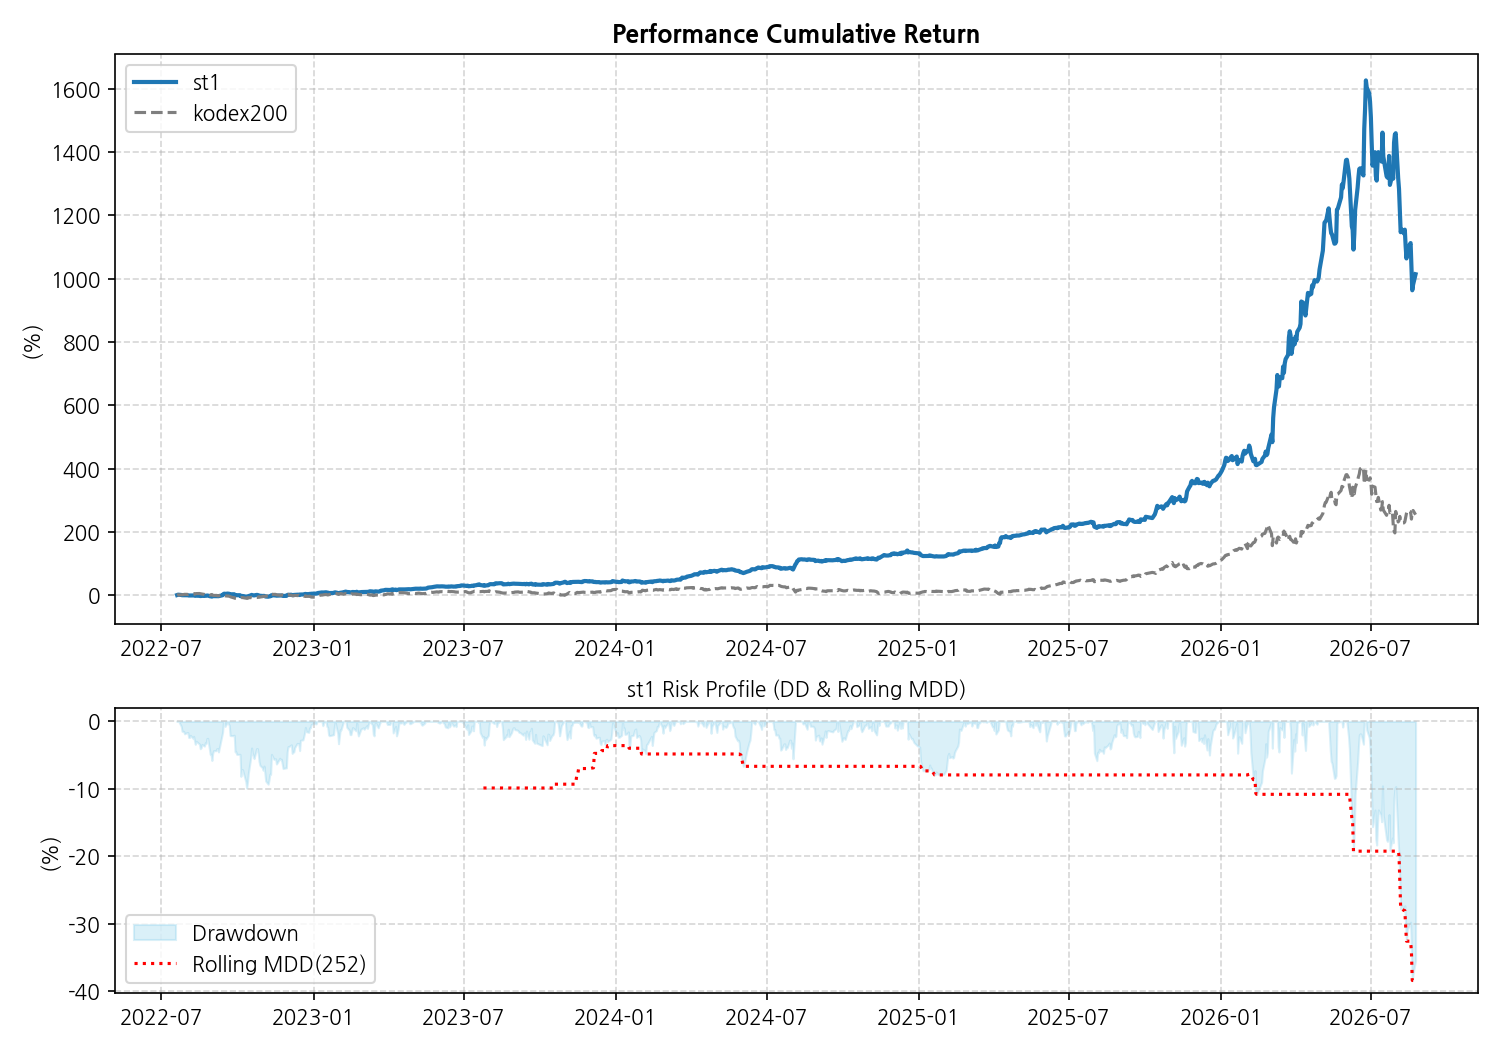
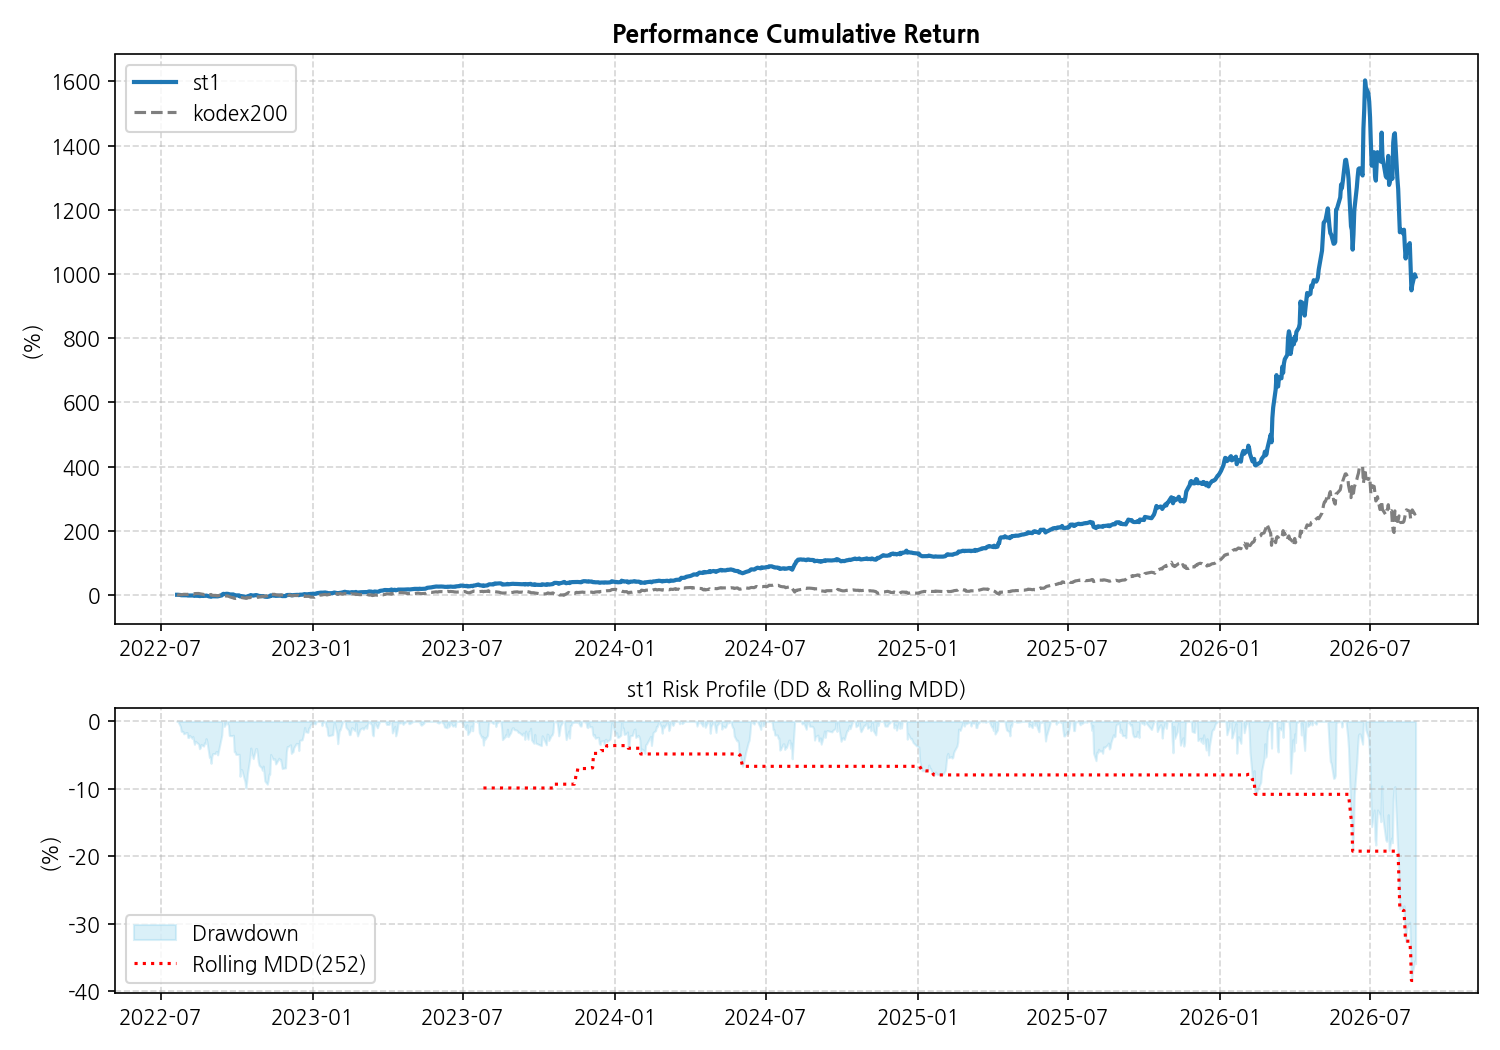
Auto commit

diff --git a/_pages/bt/bt_kodex.md b/_pages/bt/bt_kodex.md
@@ -2,7 +2,7 @@
 layout: post
 title: "BT, 오늘의 시그널(ETF)"
 author: Best Investor
-date: 2026-08-24
+date: 2026-08-25
 category: BT
 mermaid: true
 parent: 포트폴리오
@@ -14,14 +14,14 @@ parent: 포트폴리오
 
 | 지표 | 전략 1 (S1) | 전략 2 (S2) | 차이 (Diff) |
 | :--- | :---: | :---: | :---: |
-| **오늘 수익률** | 3.06% | -3.64% | 6.69% |
-| **30일 수익률** | -23.86% | -11.2% | -12.66% |
-| **1년 수익률** | 250.66% | 140.48% | 110.18% |
-| **전체 수익률** | 1014.16% | 254.66% | 759.5% |
+| **오늘 수익률** | -0.7% | 0.86% | -1.55% |
+| **30일 수익률** | -26.23% | -12.64% | -13.59% |
+| **1년 수익률** | 248.24% | 142.49% | 105.75% |
+| **전체 수익률** | 991.37% | 255.0% | 736.37% |
 | **MDD (1Y)** | -38.4% | -41.15% | 2.75%p |
 | **MDD (ALL)** | **-38.4%** | **-41.15%** | 2.75%p |
-| **샤프 (1Y)** | 2.87 | 1.79 | 1.08 |
-| **샤프 (ALL)** | **2.34** | **1.12** | 1.22 |
+| **샤프 (1Y)** | 2.86 | 1.8 | 1.06 |
+| **샤프 (ALL)** | **2.32** | **1.12** | 1.2 |
 
 ## 📉 누적 성과 및 리스크 차트
 1. **최근 30일:** ![30일](/img_st/st_kodex_cum_risk_30d.png)

diff --git a/_posts/signal/2026-04-01-signal.md b/_posts/signal/2026-04-01-signal.md
@@ -7,6 +7,18 @@ category: Jekyll
 ---
 ## 시그널  
 
+### 📊 2026-08-26 Morning Trading Signal
+
+- 📅 날짜: 2026-08-26  
+- ⏰ 시간: 08:45  
+- 🧾 종목: **KODEX 인버스**  
+- 📉 포지션: **하방**
+
+##### 🧭 Execution Plan
+- 🚀 진입: 오늘 시가_진입(매수)
+- 🎯 청산: 오늘 종가_청산
+
+
 ### 📊 2026-08-25 Afternoon Trading Signal
 
 - 📅 날짜: 2026-08-25  
